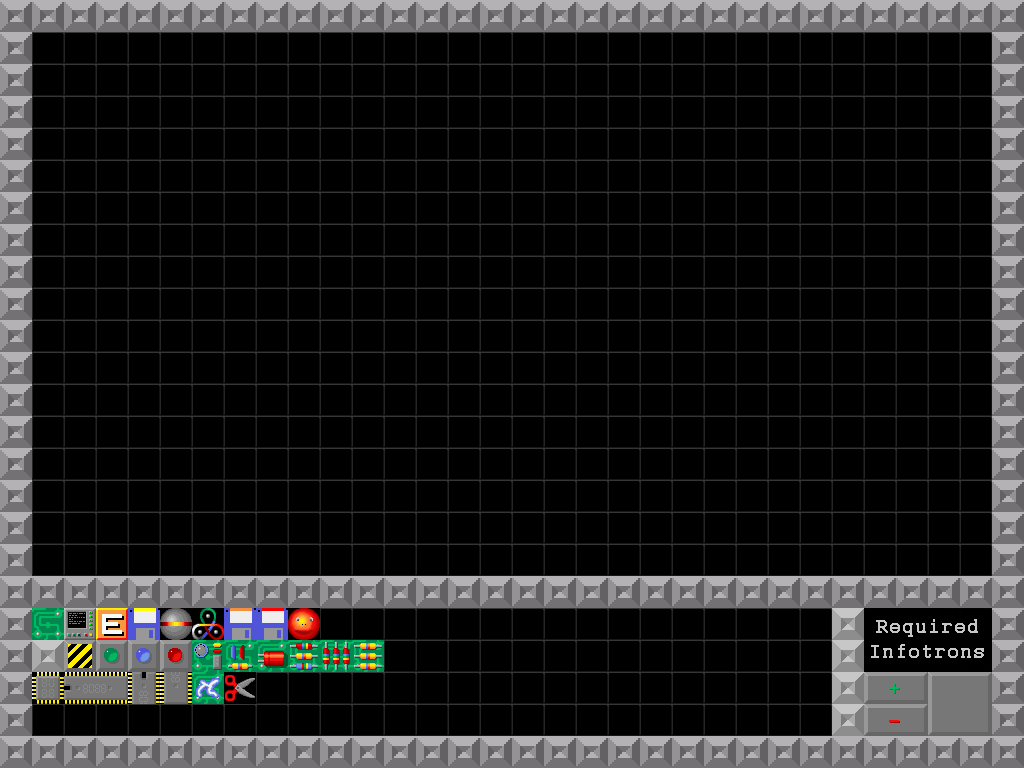
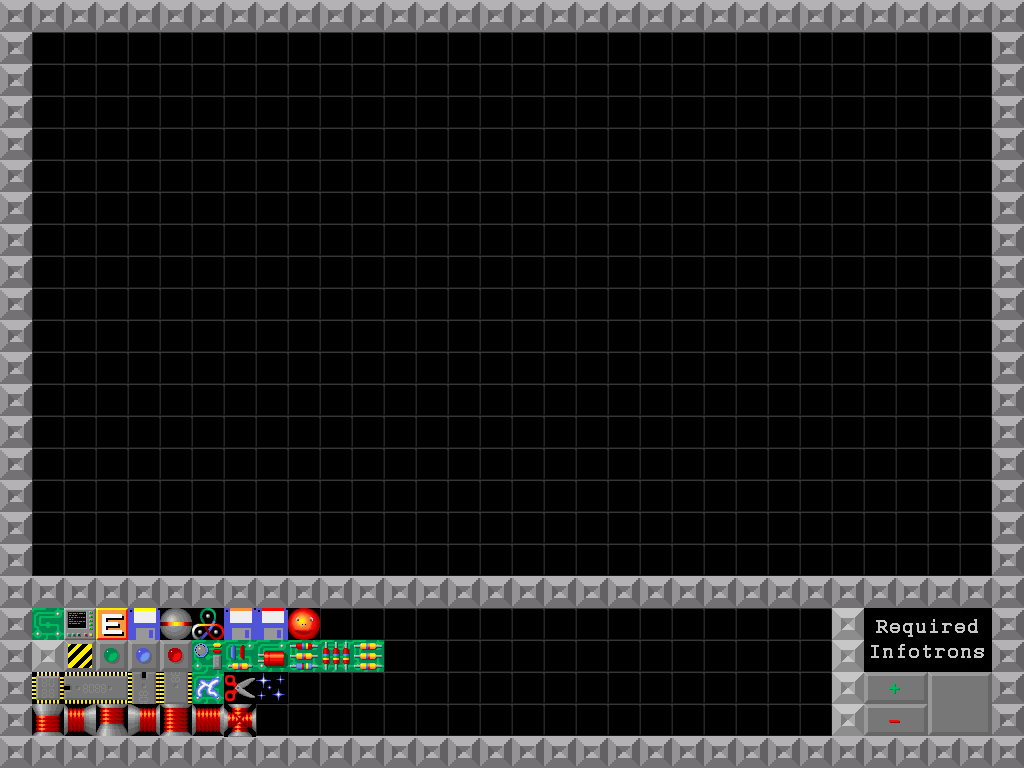
Added ports

Changed region(s): [[0.0312, 0.9062, 0.25, 0.9688], [0.25, 0.875, 0.2812, 0.9062]]

diff --git a/levels/level06.js b/levels/level06.js
@@ -1,24 +1,24 @@
-level_author = "Anrijs";
-level_name = "PlayGround";
-requiredInfotrons = 18;
+requiredInfotrons = 0;
+level_author = "Anrijs"; 
+level_name = "line";
 line[0] = [15,15,15,15,15,15,15,15,15,15,15,15,15,15,15,15,15,15,15,15,15,15,15,15,15,15,15,15,15,15,15,15];
-line[1] =  [15,1,1,1,1,1,1,1,1,1,1,1,1,1,1,1,1,1,1,1,1,1,1,1,0,1,1,1,4,5,5,15];
-line[2] = [15,1,1,6,1,1,1,1,1,1,1,1,1,1,1,1,1,1,1,1,1,1,1,1,0,1,1,29,0,5,5,15];
-line[3] = [15,1,1,19,1,1,4,4,4,4,4,4,1,1,6,1,1,1,1,1,1,1,1,1,1,1,1,7,1,5,5,15];
-line[4] =[15,1,1,1,1,6,4,1,1,1,1,1,4,1,16,6,1,1,1,1,6,1,1,1,1,1,1,29,1,5,5,15];
-line[5] = [15,1,1,1,1,4,1,1,1,6,1,1,1,4,1,15,1,1,1,1,17,1,1,1,1,1,1,1,1,1,1,15];
-line[6] = [15,1,1,29,4,1,1,1,1,15,1,1,1,4,1,1,1,1,1,1,1,1,1,1,1,1,1,1,1,1,1,15];
-line[7] = [15,1,29,7,29,1,1,8,9,2,1,1,1,1,1,1,1,1,1,1,1,1,1,1,1,1,1,1,1,1,1,15];
-line[8] = [15,1,1,29,1,1,6,1,8,1,1,1,1,1,1,1,1,1,1,1,1,6,1,1,1,1,6,1,1,1,1,15];
-line[9] = [15,1,1,1,1,1,15,1,8,1,1,1,1,1,6,1,1,1,1,1,1,16,6,1,1,1,15,1,1,1,1,15];
-line[10] = [15,5,1,1,1,1,1,1,8,1,1,1,1,1,15,1,1,1,1,1,1,6,15,1,1,1,1,1,1,1,1,15];
-line[11] = [15,1,1,6,1,1,1,1,8,1,1,1,1,1,1,1,1,1,1,1,1,16,1,1,1,1,1,1,1,1,1,15];
-line[12] = [15,5,1,18,1,1,1,1,6,1,1,1,1,1,1,1,1,1,1,5,1,1,1,1,1,1,1,1,1,1,1,15];
-line[13] = [15,0,5,3,1,1,1,1,19,1,1,1,1,1,6,1,1,1,5,0,5,1,1,1,1,1,1,6,1,1,1,15];
-line[14] = [15,0,0,1,29,1,1,1,1,1,1,1,1,1,15,1,1,1,0,0,1,1,1,1,1,1,1,15,1,1,1,15];
-line[15] = [15,0,0,1,1,1,1,1,1,1,1,1,1,1,1,1,1,1,1,0,1,1,1,1,1,1,1,1,1,1,6,15];
-line[16] = [15,0,0,5,1,1,1,1,1,1,1,1,1,1,1,1,1,1,1,0,1,1,1,1,1,1,1,1,1,1,16,15];
-line[17] = [15,29,0,10,1,27,27,27,29,29,29,29,29,29,29,29,29,29,29,29,29,29,29,27,27,27,27,27,27,27,27,15];
+line[1] = [15,1,1,1,1,1,10,1,1,1,1,13,1,1,1,1,1,1,1,1,1,1,1,1,1,1,1,1,1,1,1,15];
+line[2] = [15,1,1,9,1,6,13,1,1,6,1,14,1,1,1,1,1,1,1,1,1,1,1,1,1,1,1,1,1,1,1,15];
+line[3] = [15,1,5,5,1,5,14,1,1,5,1,13,1,1,1,1,1,1,1,1,1,1,1,1,1,1,1,1,1,1,1,15];
+line[4] = [15,5,1,10,1,1,13,1,1,1,1,14,1,1,1,1,1,1,1,1,1,1,1,1,1,1,1,1,1,1,1,15];
+line[5] = [15,6,0,34,1,1,14,1,1,0,1,10,1,1,1,1,1,1,1,1,1,1,1,1,1,1,1,1,1,1,1,15];
+line[6] = [15,10,35,10,10,32,10,11,12,36,11,12,10,10,16,19,16,1,1,1,1,1,1,1,1,1,1,1,1,1,1,15];
+line[7] = [15,1,1,13,1,0,1,1,1,1,1,1,1,37,0,8,19,1,1,1,1,1,1,1,1,1,1,1,1,1,1,15];
+line[8] = [15,1,0,33,1,1,1,1,1,1,1,1,1,13,16,19,16,1,1,1,1,1,1,1,1,1,1,1,1,1,1,15];
+line[9] = [15,10,11,12,11,12,11,12,11,12,11,12,1,14,11,12,1,1,1,1,1,1,1,1,1,1,1,1,1,1,1,15];
+line[10] = [15,1,1,1,1,1,1,1,10,3,10,0,38,0,1,10,1,1,1,1,1,1,1,1,1,1,1,1,1,1,1,15];
+line[11] = [15,1,1,1,1,1,1,1,10,11,12,10,0,10,1,13,1,1,1,1,1,1,1,1,1,1,1,1,1,1,1,15];
+line[12] = [15,1,1,1,1,1,1,1,1,1,1,13,1,1,1,14,1,1,1,1,1,1,1,1,1,1,1,1,1,1,1,15];
+line[13] = [15,1,1,1,1,1,1,1,1,1,1,14,10,11,12,10,1,1,1,1,1,1,1,1,1,1,1,1,1,1,1,15];
+line[14] = [15,1,1,1,1,1,1,1,1,1,1,1,1,1,1,1,1,1,1,1,1,1,1,1,1,1,1,1,1,1,1,15];
+line[15] = [15,1,1,1,1,1,1,1,1,1,1,1,1,1,1,1,1,1,1,1,1,1,1,1,1,1,1,1,1,1,1,15];
+line[16] = [15,1,1,1,1,1,1,1,1,1,1,1,1,1,1,1,1,1,1,1,1,1,1,1,1,1,1,1,1,1,1,15];
+line[17] = [15,1,1,1,1,1,1,1,1,1,1,1,1,1,1,1,1,1,1,1,1,1,1,1,1,1,1,1,1,1,1,15];
 line[18] = [15,15,15,15,15,15,15,15,15,15,15,15,15,15,15,15,15,15,15,15,15,15,15,15,15,15,15,15,15,15,15,15];
 // Generated with level editor: http://anrijs.jargans.com/murphy/editor.html 
-// Date:2.2.2013
+// Date:3.2.2013

diff --git a/js/leveleditor.js b/js/leveleditor.js
@@ -139,8 +139,24 @@ var render = function () {
         case 3 : {brush=12;break}
         case 4 : {brush=13;break}
         case 5 : {brush=14;break}
-        case 6 : {brush=31;break}
+        case 6 : {brush=41;break}
         case 7 : {brush=27;break}
+        case 8 : {brush=29;break}
+        default: {brush=0;break;}
+      }
+      brush_y=ly;brush_x=lx;
+    }
+    else if(ly==22&&lx<15)
+    {
+      switch (lx)
+      {
+        case 1 : {brush=32;break}
+        case 2 : {brush=33;break}
+        case 3 : {brush=35;break}
+        case 4 : {brush=34;break}
+        case 5 : {brush=36;break}
+        case 6 : {brush=37;break}
+        case 7 : {brush=38;break}
         default: {brush=0;break;}
       }
       brush_y=ly;brush_x=lx;
@@ -201,8 +217,15 @@ if(48 in keysDown) {brush=0;}
         case 24: {ctx.drawImage(hw10Image, j*32,i*32);break;}
         case 25: {ctx.drawImage(hw11Image, j*32,i*32);break;}
         case 27: {ctx.drawImage(sniksnak_up_0Image, j*32,i*32);break;}
-        case 31: {ctx.drawImage(bug_5Image, j*32,i*32);break;}
-
+        case 29: {ctx.drawImage(electron_0Image, j*32,i*32);break;}
+        case 41: {ctx.drawImage(bug_5Image, j*32,i*32);break;}
+        case 32: {ctx.drawImage(port_downImage, j*32,i*32);break;}
+        case 33: {ctx.drawImage(port_leftImage, j*32,i*32);break;}
+        case 34: {ctx.drawImage(port_rightImage, j*32,i*32);break;}
+        case 35: {ctx.drawImage(port_upImage, j*32,i*32);break;}
+        case 36: {ctx.drawImage(port_verticalImage, j*32,i*32);break;}
+        case 37: {ctx.drawImage(port_horizontalImage, j*32,i*32);break;}
+        case 38: {ctx.drawImage(port_allImage, j*32,i*32);break;}
       }
 
     }
@@ -254,7 +277,7 @@ var getLevel = function()
       requiredInfotrons=totalInfotrons;
     }
 
-  var levelText="requiredInfotrons  = "+requiredInfotrons+";<br/>";;
+  var levelText="requiredInfotrons  = "+requiredInfotrons+";<br/>"+'level_author = "Anrijs"; <br/> level_name = "PlayGround";';
 
   for(var i=0;i<19;i++)
   {

diff --git a/js/functions.js b/js/functions.js
@@ -368,6 +368,7 @@ function functionMurphyPush(i)
           }
         }
       }
+      else if ((line[my+1][mx]==32||line[my+1][mx]==36||line[my+1][mx]==38)&&line[my+2][mx]==0){murphy_port=1;}
       else {murphy_move=0;murphy_distance=0;}
     }
     
@@ -382,6 +383,7 @@ function functionMurphyPush(i)
           }
         }
       }
+      else if ((line[my-1][mx]==35||line[my-1][mx]==36||line[my-1][mx]==38)&&line[my-2][mx]==0){murphy_port=1;}
       else {murphy_move=0;murphy_distance=0;}
     }
 
@@ -412,6 +414,7 @@ function functionMurphyPush(i)
           }
         }
       }
+      else if ((line[my][mx+1]==34||line[my][mx+1]==37||line[my][mx+1]==38)&&line[my][mx+2]==0){murphy_port=1;}
       else
       {
         murphy_move=0;
@@ -445,6 +448,7 @@ function functionMurphyPush(i)
           }
         }
       }
+      else if ((line[my][mx-1]==33||line[my][mx-1]==37||line[my][mx-1]==38)&&line[my][mx-2]==0){murphy_port=1;}
       else
       {
         murphy_move=0;
@@ -462,10 +466,10 @@ function functionMurphyMove()
       murphy_distance++;
       switch (murphy_direction)
       {
-        case 1: {murphy.yoffset-=moveSpeed; break;}
-        case 2: {murphy.yoffset+=moveSpeed; break;}
-        case 3: {murphy.xoffset-=moveSpeed; break;}
-        case 4: {murphy.xoffset+=moveSpeed; break;}
+        case 1: {murphy.yoffset-=moveSpeed;if(murphy_port==1){murphy.yoffset-=moveSpeed;} break;}
+        case 2: {murphy.yoffset+=moveSpeed;if(murphy_port==1){murphy.yoffset+=moveSpeed;} break;}
+        case 3: {murphy.xoffset-=moveSpeed;if(murphy_port==1){murphy.xoffset-=moveSpeed;} break;}
+        case 4: {murphy.xoffset+=moveSpeed;if(murphy_port==1){murphy.xoffset+=moveSpeed;} break;}
       }
     }
     else
@@ -489,6 +493,7 @@ function functionMurphyMove()
         {
           redDisks++;
         }
+        murphy_port=0;
       line[murphy.y-1][murphy.x-1]=9;
       murphy.xoffset = 0;
       murphy.yoffset = 0;

diff --git a/js/images.js b/js/images.js
@@ -363,3 +363,24 @@ infotron_explosion_6Image.src = "img/infotron_explosion_6.png";
 
 var infotron_explosion_7Image = new Image();
 infotron_explosion_7Image.src = "img/infotron_explosion_7.png";     
+
+var port_upImage = new Image();
+port_upImage.src = "img/port_up.png";
+
+var port_downImage = new Image();
+port_downImage.src = "img/port_down.png";
+
+var port_leftImage = new Image();
+port_leftImage.src = "img/port_left.png";
+
+var port_rightImage = new Image();
+port_rightImage.src = "img/port_right.png";
+
+var port_horizontalImage = new Image();
+port_horizontalImage.src = "img/port_horizontal.png";
+
+var port_verticalImage = new Image();
+port_verticalImage.src = "img/port_vertical.png";
+
+var port_allImage = new Image();
+port_allImage.src = "img/port_all.png";

diff --git a/js/game.php b/js/game.php
@@ -28,7 +28,7 @@ while($i<$totalLevels+1)
   echo "var totalLevels=".$totalLevels;
 ?>
 
- var version = 'Alpha v1.5pre1';
+ var version = 'Beta v1.0';
 
 var murphy = [];
 murphy.x=2;
@@ -56,6 +56,7 @@ var levelsAvaible = <?php echo $levelsAvaible;?> ;
 var diskIsPlanted = 0;
 var diskX=0;
 var diskY=0;
+var murphy_port=0;
 
 var menuFrame = 0;
 
@@ -132,6 +133,7 @@ var loadGame = function(levelID)
   murphy.win=0;
   murphy.isPushing=0;
   collected = 0;
+  murphy_port=0;
   murphy_pull = 0;
   murphy_move = 0;
   murphy_direction = 0;
@@ -571,6 +573,14 @@ ctx.drawImage(bgImage, 0, 0);
         case 24: {ctx.drawImage(hw10Image, j*32,i*32);break;}
         case 25: {ctx.drawImage(hw11Image, j*32,i*32);break;}
     // case 28: {ctx.drawImage(hw11Image, j*32,i*32);break;}
+        case 32: {ctx.drawImage(port_downImage, j*32,i*32);break;}
+        case 33: {ctx.drawImage(port_leftImage, j*32,i*32);break;}
+        case 34: {ctx.drawImage(port_rightImage, j*32,i*32);break;}
+        case 35: {ctx.drawImage(port_upImage, j*32,i*32);break;}
+        case 36: {ctx.drawImage(port_verticalImage, j*32,i*32);break;}
+        case 37: {ctx.drawImage(port_horizontalImage, j*32,i*32);break;}
+        case 38: {ctx.drawImage(port_allImage, j*32,i*32);break;}
+
         case 39: {ctx.drawImage(baseImage, j*32,i*32); var rand=Math.random(); if(rand<0.005){line[i][j]++;}break;}
         case 40: {ctx.drawImage(baseImage, j*32,i*32); var rand=Math.random(); if(rand<0.02){line[i][j]++;}break;}
         case 41: {ctx.drawImage(bug_1Image, j*32,i*32); line[i][j]++;break;}
@@ -877,6 +887,26 @@ ctx.drawImage(bgImage, 0, 0);
 
 
   else if(murphy.hit!==1){ctx.drawImage(murphyImage, ((murphy.x+murphy.xoffset)*32)-32, ((murphy.y+murphy.yoffset)*32)-32);}
+
+  if(murphy_port==1)
+  {
+    for(var i=0;i<19;i++)
+  {
+    for(var j=0;j<32;j++)
+    {
+      switch (line[i][j])
+      {
+        case 32: {ctx.drawImage(port_downImage, j*32,i*32);break;}
+        case 33: {ctx.drawImage(port_leftImage, j*32,i*32);break;}
+        case 34: {ctx.drawImage(port_rightImage, j*32,i*32);break;}
+        case 35: {ctx.drawImage(port_upImage, j*32,i*32);break;}
+        case 36: {ctx.drawImage(port_verticalImage, j*32,i*32);break;}
+        case 37: {ctx.drawImage(port_horizontalImage, j*32,i*32);break;}
+        case 38: {ctx.drawImage(port_allImage, j*32,i*32);break;}
+       }
+     }
+    }
+  }
   
     if(diskIsPlanted==1)
     {
@@ -1120,14 +1150,19 @@ var drawMenu = function ()
 
   ctx.fillStyle = '#f80'
   ctx.font = "20px Courier New Bold";
-  ctx.fillText("Snik-snak?", 240,50);
-  if(menuFrame<2)        {ctx.drawImage(sniksnak_left_0Image, 363, 46);menuFrame++;}
-  else if(menuFrame<4)  {ctx.drawImage(sniksnak_left_3Image, 363, 46);menuFrame++;}
-  else if(menuFrame<8)  {ctx.drawImage(sniksnak_left_2Image, 363, 46);menuFrame++;}
-  else if(menuFrame<11)  {ctx.drawImage(sniksnak_left_1Image, 363, 46);menuFrame++;}
-  else if(menuFrame<14)  {ctx.drawImage(sniksnak_left_2Image, 363, 46);menuFrame++;}
-  else if(menuFrame<17)  {ctx.drawImage(sniksnak_left_3Image, 363, 46);menuFrame++;}
-  else if(menuFrame==17)  {ctx.drawImage(sniksnak_left_3Image, 363, 46);menuFrame=0;}
+  ctx.fillText("Last ob", 240,50);
+  ctx.fillText("bject", 345,50);
+  ctx.font = "12px Courier New Bold";
+  ctx.fillStyle = '#f20'
+  ctx.fillText("Now Beta!", 240,70);
+  ctx.drawImage(port_rightImage, 315, 46)
+// if(menuFrame<2)        {ctx.drawImage(sniksnak_left_0Image, 363, 46);menuFrame++;}
+// else if(menuFrame<4)  {ctx.drawImage(sniksnak_left_3Image, 363, 46);menuFrame++;}
+// else if(menuFrame<8)  {ctx.drawImage(sniksnak_left_2Image, 363, 46);menuFrame++;}
+// else if(menuFrame<11)  {ctx.drawImage(sniksnak_left_1Image, 363, 46);menuFrame++;}
+// else if(menuFrame<14)  {ctx.drawImage(sniksnak_left_2Image, 363, 46);menuFrame++;}
+// else if(menuFrame<17)  {ctx.drawImage(sniksnak_left_3Image, 363, 46);menuFrame++;}
+// else if(menuFrame==17)  {ctx.drawImage(sniksnak_left_3Image, 363, 46);menuFrame=0;}
 
   ctx.fillStyle = '#dd4';
   ctx.font = "16px Helvetica, Bold";
